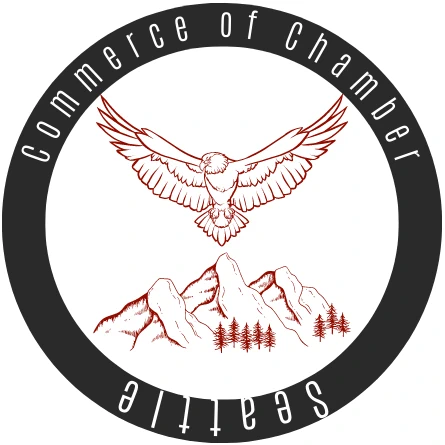
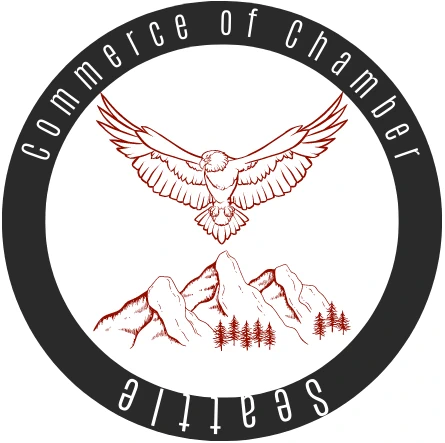
changes

diff --git a/chamber/index.html b/chamber/index.html
@@ -17,7 +17,7 @@
 <body>
     <header>
        <div id="logo"> 
-        <img src="./images/seattle.png" alt="">
+        <img src="./images/seattle.Webp" alt="">
         <div>
             <h2>Seattle</h2>
             <h3>Chamber of Commerce</h3>
